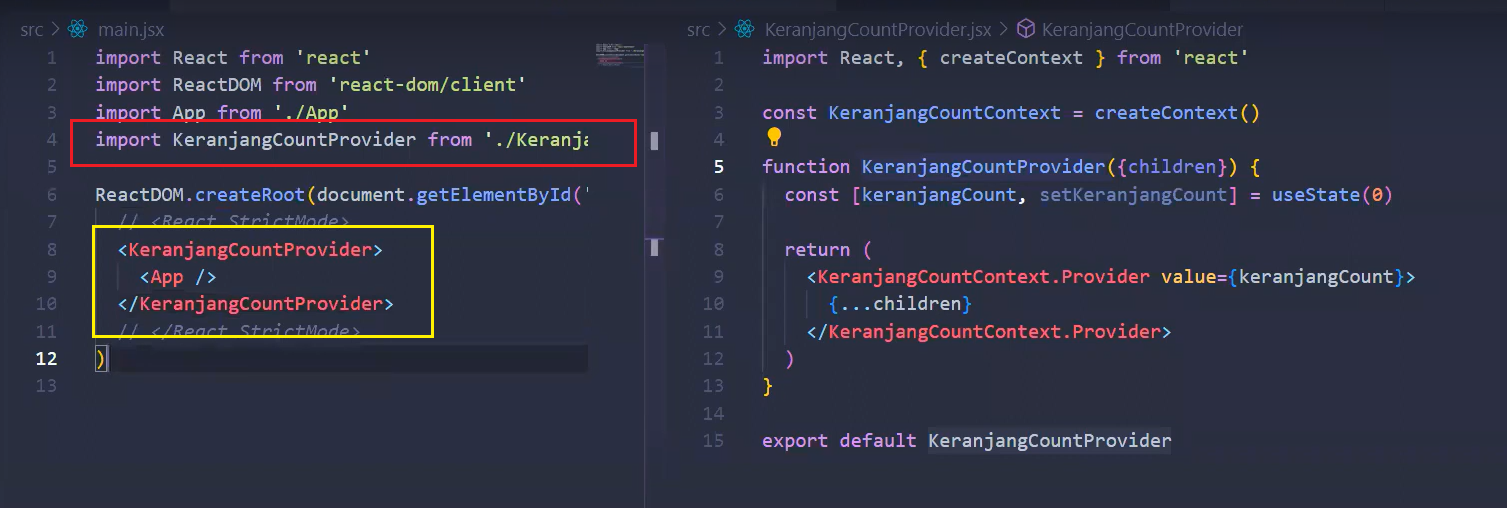
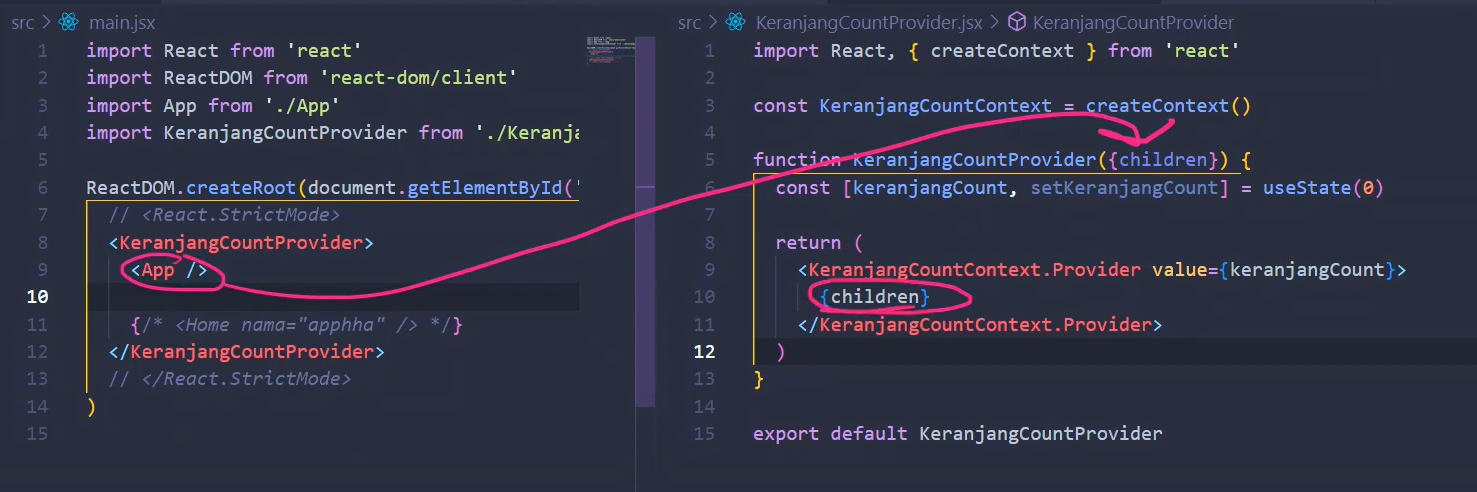
commit

diff --git a/week-3/week-3.md b/week-3/week-3.md
@@ -55,28 +55,10 @@ Maka dari itu, akan dibuat sebuah component context bernama **KeranjangCountProv
    <img src="./gambar/senin-11.png"/>
 
 8. Panggil component context di dalam main.jsx / index.js
-
-<img src="./gambar/senin-12.png"/>
+   <img src="./gambar/senin-12.png"/>
 
 ---
 
-<img src="./gambar/senin-1.png"/>
-<img src="./gambar/senin-2.png"/>
+### Menggunakan props yang sudah disediakan pada component context menggunakan useContext
 
-### proses membuat context
-
-1. membuat file context
-
-contoh: LevelContext.js
-
-2. Mengimport context pada file LevelContext.js
-
-```javascript
-import { createContext } from "react";
-```
-
-3. Membuat props yang akan diisi oleh createContext()
-
-```javascript
-export const LevelContext = createContext(1);
-```
+<img src="./gambar/senin-13.png"/>
